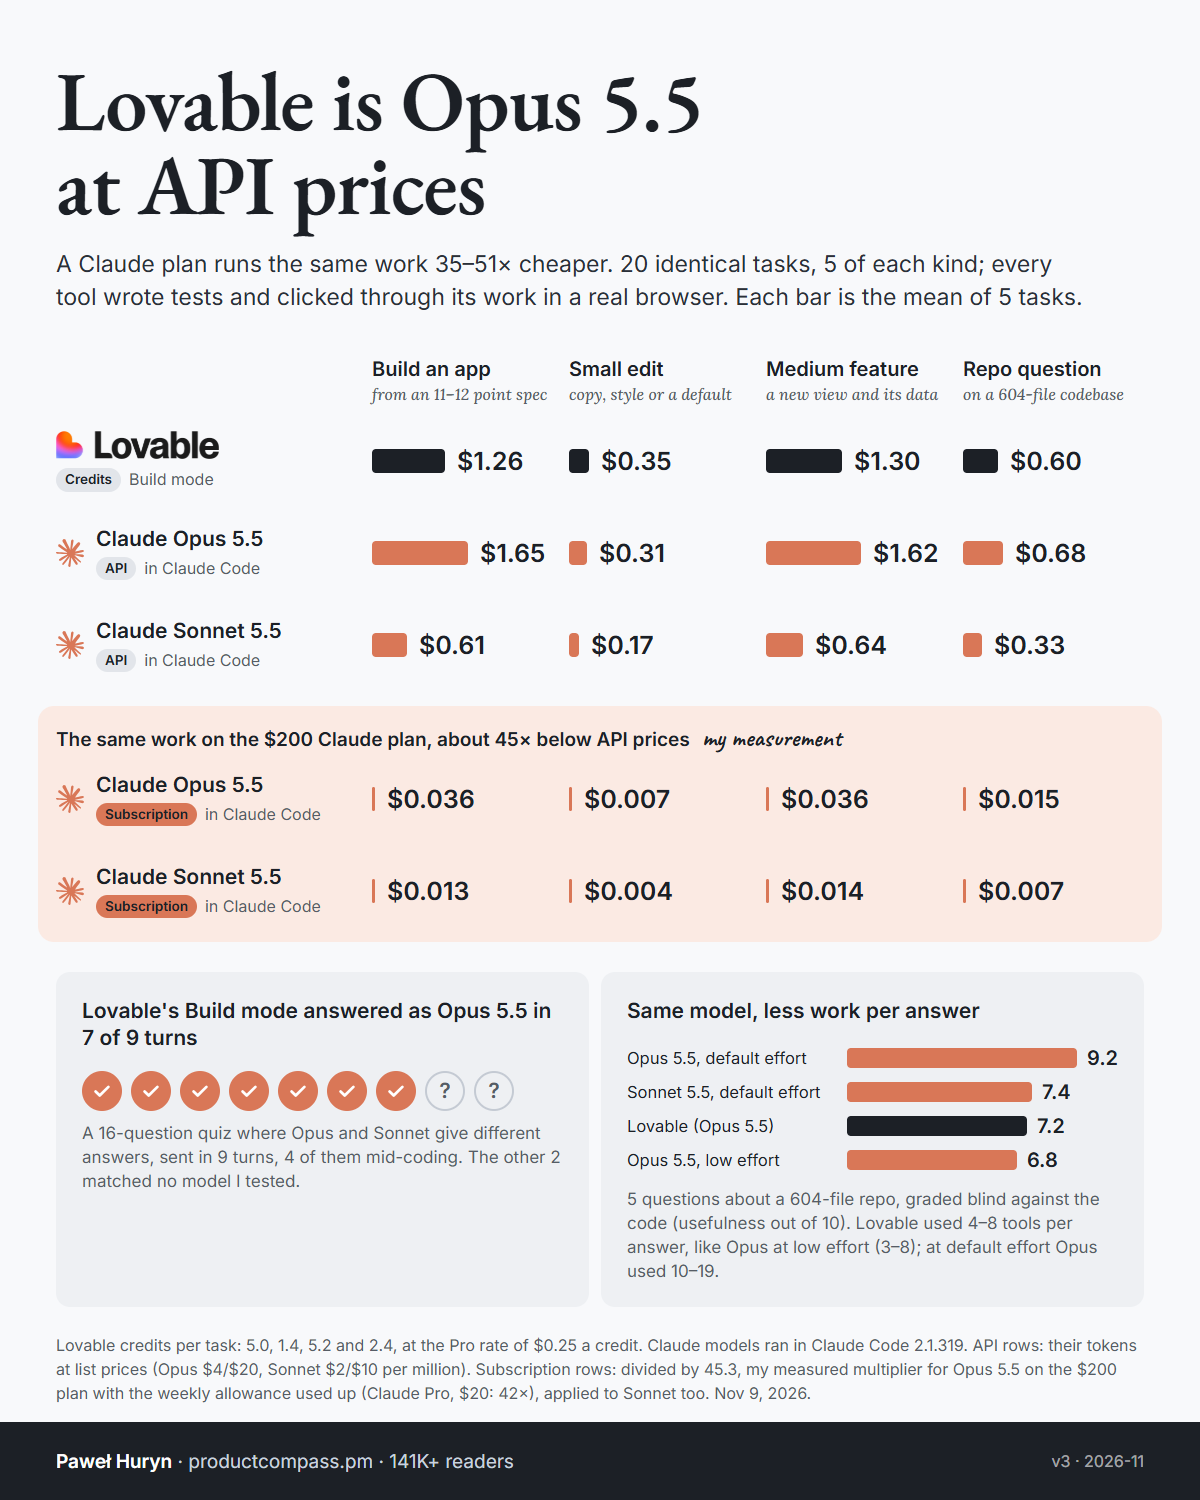
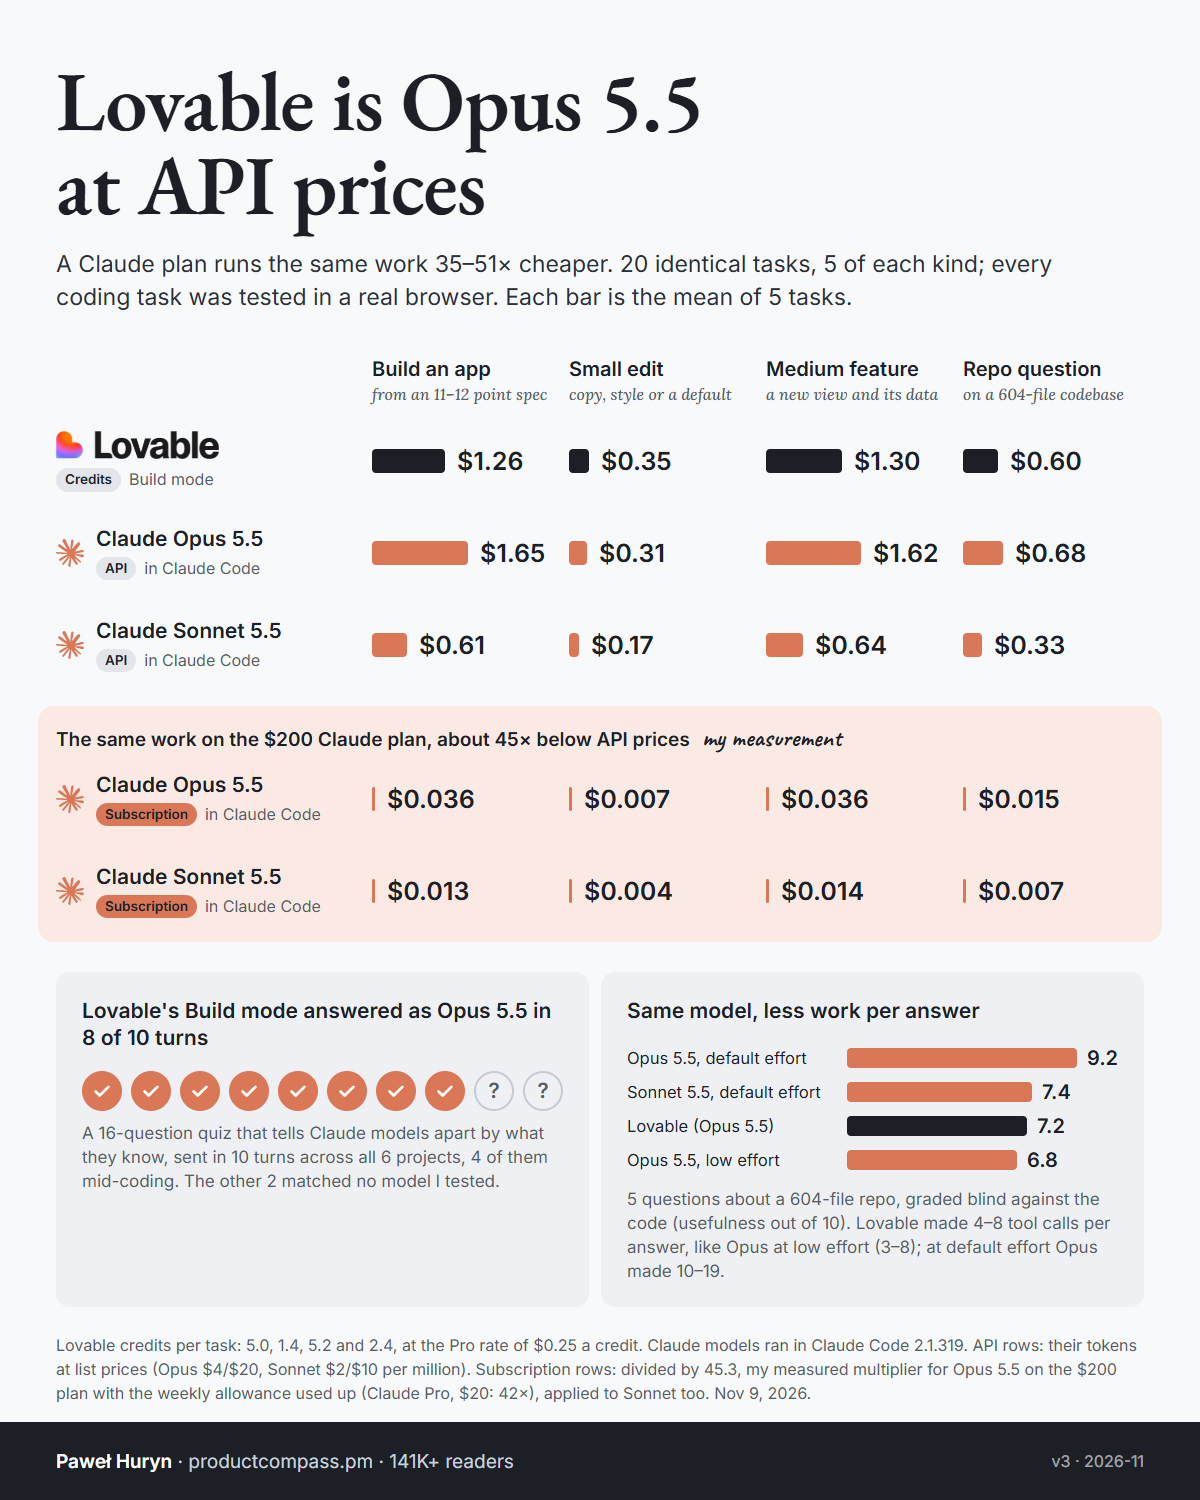
lovable-vs-claude-code: the repo-question project fingerprinted too (Opus 5.5, 14.0 of 16): 8 of 10 Build turns; card v3 caption and dek fixes

diff --git a/lovable-vs-claude-code/04-which-model-answers/README.md b/lovable-vs-claude-code/04-which-model-answers/README.md
@@ -44,7 +44,7 @@ Lovable doesn't say which model writes your code in Build mode. Builders guess a
 
 **In Lovable** ([scripts/lov_probe.sh](../scripts/lov_probe.sh), [scripts/lov_xquiz.sh](../scripts/lov_xquiz.sh)), Build mode, one paid account:
 
-- **Quiz-only turns:** the same prompt sent once in each of the 5 app projects from [02](../02-cost-per-task/), after their three coding tasks ([lovable/probe_*.json](lovable/)).
+- **Quiz-only turns:** the same prompt sent once in each of the 5 app projects from [02](../02-cost-per-task/), after their three coding tasks, and later the same day in the project that answered the repo questions in [03](../03-repo-questions/), so that project is fingerprinted too ([lovable/probe_*.json](lovable/)).
 - **Coding turns:** to see which model writes code, the quiz was appended to 4 real coding tasks: 2 small edits and 2 medium features ([lovable/prompts/](lovable/prompts/)). The task came first; the quiz asked for the answers "at the very end of your final reply … from memory".
 - Each answer sheet is in `lovable/*_sheet.txt`, the full turn in the matching `.json`.
 
@@ -57,6 +57,7 @@ Lovable doesn't say which model writes your code in Build mode. Builders guess a
 | kanban, quiz only | 0.70 | **14.3** | 8.0 | 12.0 | 4.3 | Opus 5.5 | yes / yes |
 | budget, quiz only | 0.60 | **14.0** | 7.3 | 12.0 | 5.0 | Opus 5.5 | yes / yes |
 | notes, quiz only | 0.40 | 10.7 | 9.3 | **12.0** | 5.7 | none clearly | no / no |
+| repo questions, quiz only | 0.70 | **14.0** | 8.0 | 12.0 | 4.7 | Opus 5.5 | yes / yes |
 | split, small edit + quiz | 2.30 | **14.7** | 8.0 | 13.0 | 4.3 | Opus 5.5 | yes / yes |
 | timer, medium feature + quiz | 3.00 | **14.7** | 8.0 | 13.0 | 4.3 | Opus 5.5 | yes / yes |
 | budget, medium feature + quiz | 4.10 | **14.0** | 7.3 | 12.0 | 5.0 | Opus 5.5 | yes / yes |
@@ -72,7 +73,7 @@ Quiz-only turns took 8–15 seconds. Their credits come from each message's "Mor
 
 ## Findings
 
-1. **Lovable's Build mode is mostly Opus 5.5.** 7 of 9 Build turns matched Opus 5.5 best, at 14.0–14.7 of 16, the same range as Opus's own held-out runs (14–15) and far from Sonnet 5.5 (7.3–8.0). All 7 gave both of the numbers only Opus gives (614 m and 1,266 m).
+1. **Lovable's Build mode is mostly Opus 5.5.** 8 of 10 Build turns, across all 6 projects, matched Opus 5.5 best, at 14.0–14.7 of 16, the same range as Opus's own held-out runs (14–15) and far from Sonnet 5.5 (7.3–8.0). All 8 gave both of the numbers only Opus gives (614 m and 1,266 m).
 2. **It's Opus while it writes code, too.** The three coding turns in the Opus projects returned the same answer sheets as those projects' quiz-only turns, at 2.30–4.10 credits each.
 3. **Routing looks per project.** The notes project never matched any reference model well (9–10.7 of 16) and gave names no reference model gave ("Mario Campolongo", "Leon Jankowski"), on both its turns. It knows the deep items that Opus and Fable know, gave one of the two Opus-only numbers on one turn and neither on the other. The model behind it is unidentified.
 4. **GPT shows up rarely.** 1 of 20 benchmark turns carried a GPT-like style signal, the costliest one. Lovable says publicly that it routes different parts of a build to different models; this is consistent with that, and too thin to call a share.
@@ -80,7 +81,7 @@ Quiz-only turns took 8–15 seconds. Their credits come from each message's "Mor
 
 ## Caveats
 
-- **n = 9 Build turns on one account, one day.** Routing can change with load, plan or project, and Lovable can change it any time.
+- **n = 10 Build turns on one account, one day.** Routing can change with load, plan or project, and Lovable can change it any time.
 - **The reference panel is the raw API with no system prompt.** Lovable's own system prompt and settings can shift style and confidence, but the verdicts rest on knowledge items, including two numbers only Opus gave.
 - **Only four reference models.** A model outside the panel (another vendor's, or a Claude version not tested) can't be named, which is why the notes project stays "unidentified".
 - **The GPT signal is style, not knowledge**, so it's weaker evidence than the quiz. The quiz wasn't attached to that turn.

diff --git a/README.md b/README.md
@@ -10,7 +10,7 @@ One line each — the full story (method, every wave, caveats) is in each set's 
 
 | Set | One-line result | Date | Source post |
 |---|---|---|---|
-| [lovable-vs-claude-code/](lovable-vs-claude-code/) | **What does Lovable cost, and which model is inside?** 20 identical tasks (5 app builds, 5 small edits, 5 features, 5 questions about a 604-file repo), every tool told to test in a real browser: **Lovable's Build mode answered as Opus 5.5 in 7 of 9 turns and charges 0.76–1.12× what Opus costs at API prices; on the $200 Claude plan the same work costs 35–51× less.** Its repo answers grade like Opus at low effort (usefulness 7.2 vs 6.8; default effort 9.2), and it uses about as few tools. All prompts, logs, apps, grades and scripts included. | Nov 9, 2026 | — |
+| [lovable-vs-claude-code/](lovable-vs-claude-code/) | **What does Lovable cost, and which model is inside?** 20 identical tasks (5 app builds, 5 small edits, 5 features, 5 questions about a 604-file repo), every tool told to test in a real browser: **Lovable's Build mode answered as Opus 5.5 in 8 of 10 turns and charges 0.76–1.12× what Opus costs at API prices; on the $200 Claude plan the same work costs 35–51× less.** Its repo answers grade like Opus at low effort (usefulness 7.2 vs 6.8; default effort 9.2), and it uses about as few tools. All prompts, logs, apps, grades and scripts included. | Nov 9, 2026 | — |
 | [subscription-multipliers/](subscription-multipliers/) | **How much API usage does an AI subscription buy?** Each plan's weekly meter burned on purpose and every call priced at public API rates: **Claude Max 20x 45×, Claude Pro 42×, SuperGrok 18× (80× on an account with X Premium+ linked), SuperGrok Lite 15.7×, ChatGPT's $100 plan (Codex) 10.25×, Muse Code 9.3× (standard)**; Muse's contributor model is 114× against standard API pricing but 5.8× against its own. Claude Pro's 5-hour window holds ~1.4× more off-peak than at peak. One uncertainty rule for every plan, from tick-to-tick floor/ceiling brackets on the usage meter. | Oct 1–3, 2026 | — |
 | [jev-decisions-api/](jev-decisions-api/) | **Is TypeSafe's Jev decision model actually cheaper and better?** Its own showcase task (invoice classification), hardened to 50 documents with 32 built so the surface cue lies: **Jev 50/50 at $0.025 per 1,000 decisions — and Claude Haiku 4.5 also 50/50, two self-hostable open models at 48/50 for 1.2–1.25x, and Opus 5 at 115x one answer behind.** The circulating "hundreds of times cheaper" figures are a property of the denominator. Strip the written definitions out and every one of Jev's errors lands below 0.80 confidence, so a 0.80 auto-approve cut passes nothing wrong; but give it a house rule it was never told and it is wrong 19 times in 24, **15 of those above 0.90 confidence**. | Sep 19, 2026 | — |
 | [ai-slop-bench/](ai-slop-bench/) | **Which model writes the most AI slop?** 12 models, 3 bare-prompt writing tasks, 108 texts, every pair judged blind in both orders by 4 judge models with vendor recusal: **Fable 5.1 picked as the AI text 14% of the time, Gemini 3.8 Flash 77%**; 1,647 judgments, 30% discarded as order flips; the judges never picked a human post over a model's (0 of 355). Every text and every raw judge response is in the folder. | Sep 7, 2026 | [X](https://x.com/PawelHuryn/status/2096885584153186390) |

diff --git a/lovable-vs-claude-code/README.md b/lovable-vs-claude-code/README.md
@@ -11,13 +11,13 @@ Lovable builds apps from a chat and charges in credits. Claude Code does the sam
 | [01](01-pilot/) | Pilot | One task of each size, nobody told to test: what does it cost, and which model family answers? | Without a testing requirement the three sides did visibly different amounts of work, so the comparison needed a rerun. **Chat mode said it was Gemini 2.5 Flash; Build mode answered like Claude 5.x.** |
 | [02](02-cost-per-task/) | Cost per task | 15 identical coding tasks, all tested in a real browser: what does each cost in Lovable and in Claude Code? | **A build cost $1.26 in Lovable, $1.65 on Opus 5.5 at API prices and $0.036 on the $200 Claude plan.** Across builds, small edits and features Lovable costs 0.76–1.12× Opus's API price and 35–51× the plan's. All 10 Claude Code apps pass their own 37–94 tests when rerun. |
 | [03](03-repo-questions/) | Repo questions | 5 questions about a 604-file open-source repo: cost, and how good are the answers, graded blind? | **Same model, less work: Lovable's answers graded 7.2 for usefulness, Opus 5.5 at default effort 9.2, at low effort 6.8.** Lovable used 4–8 tools per answer, Opus at low effort 3–8, at default 10–19. Per answer: Lovable $0.60, Opus $0.68 at API prices. |
-| [04](04-which-model-answers/) | Which model answers | Which Claude tier writes the code in Lovable's Build mode? | **Opus 5.5 in 7 of 9 Build turns, including 3 of the 4 coding turns.** The other 2, both in one project, matched no model tested. No turn matched Sonnet 5.5. |
+| [04](04-which-model-answers/) | Which model answers | Which Claude tier writes the code in Lovable's Build mode? | **Opus 5.5 in 8 of 10 Build turns, across all 6 projects, including 3 of the 4 coding turns.** The other 2, both in one project, matched no model tested. No turn matched Sonnet 5.5. |
 
 ## What's confirmed, what's likely, what didn't hold
 
 | Claim | Status | Evidence |
 |---|---|---|
-| Lovable's Build mode runs Claude Opus 5.5 | **Confirmed** for 7 of 9 tested turns, including 3 coding turns | [04](04-which-model-answers/): a 16-question knowledge fingerprint, validated 12 of 12 on the API |
+| Lovable's Build mode runs Claude Opus 5.5 | **Confirmed** for 8 of 10 tested turns across all 6 projects, including 3 coding turns | [04](04-which-model-answers/): a 16-question knowledge fingerprint, validated 12 of 12 on the API |
 | Lovable costs about what Opus 5.5 costs at API prices | **Measured** | [02](02-cost-per-task/), [03](03-repo-questions/) |
 | A Claude plan runs the same work 35–51× cheaper | **Computed** from the measured API-equivalent cost and the measured 45.3× plan multiplier; holds only if you use the allowance | [02](02-cost-per-task/), [subscription-multipliers](../subscription-multipliers/) |
 | Lovable's Chat mode is a Gemini Flash-class model | **Highly likely**: it says so, and its knowledge ends in December 2024 | [01](01-pilot/) |

diff --git a/lovable-vs-claude-code/04-which-model-answers/lovable/probe_credits.md b/lovable-vs-claude-code/04-which-model-answers/lovable/probe_credits.md
@@ -9,5 +9,6 @@ Read from the "More options" menu of the last message in each project, right aft
 | notes | Worked for 14s · Credits used 0.40 |
 | budget | Worked for 8s · Credits used 0.60 |
 | kanban | Worked for 10s · Credits used 0.70 |
+| repo questions (sent later the same day) | Worked for 13s · Credits used 0.70 (read by `lovable_run.mjs wait`, saved in `probe_qa.json`) |
 
 An answer-only turn has no Details panel, so `wait` in `scripts/lovable_run.mjs` (at that time) fell back to the last Details button on the page: the `hdr` saved in `probe_timer.json`, `probe_split.json`, `probe_budget.json` and `probe_kanban.json` is the header of the previous coding turn. The files are left as recorded. The menu fallback in `lovable_run.mjs` was added after this.

diff --git a/lovable-vs-claude-code/03-repo-questions/README.md b/lovable-vs-claude-code/03-repo-questions/README.md
@@ -28,6 +28,8 @@ The first prompt began: "Clone https://github.com/phuryn/staygreen into a tempor
 | Opus 5.5, medium | Claude Code, `--effort medium` | medium |
 | Opus 5.5, low | Claude Code, `--effort low` | low |
 
+The Lovable project that answered these questions was fingerprinted afterwards with the quiz from [04](../04-which-model-answers/): Opus 5.5 (14.0 of 16, with both Opus-only answers).
+
 Each set is one session answering all five questions in order (`claude-code/runs/<set>_q<n>.jsonl`, `lovable/qa_q<n>.json`).
 
 **Blind grading** ([grading/](grading/)):
